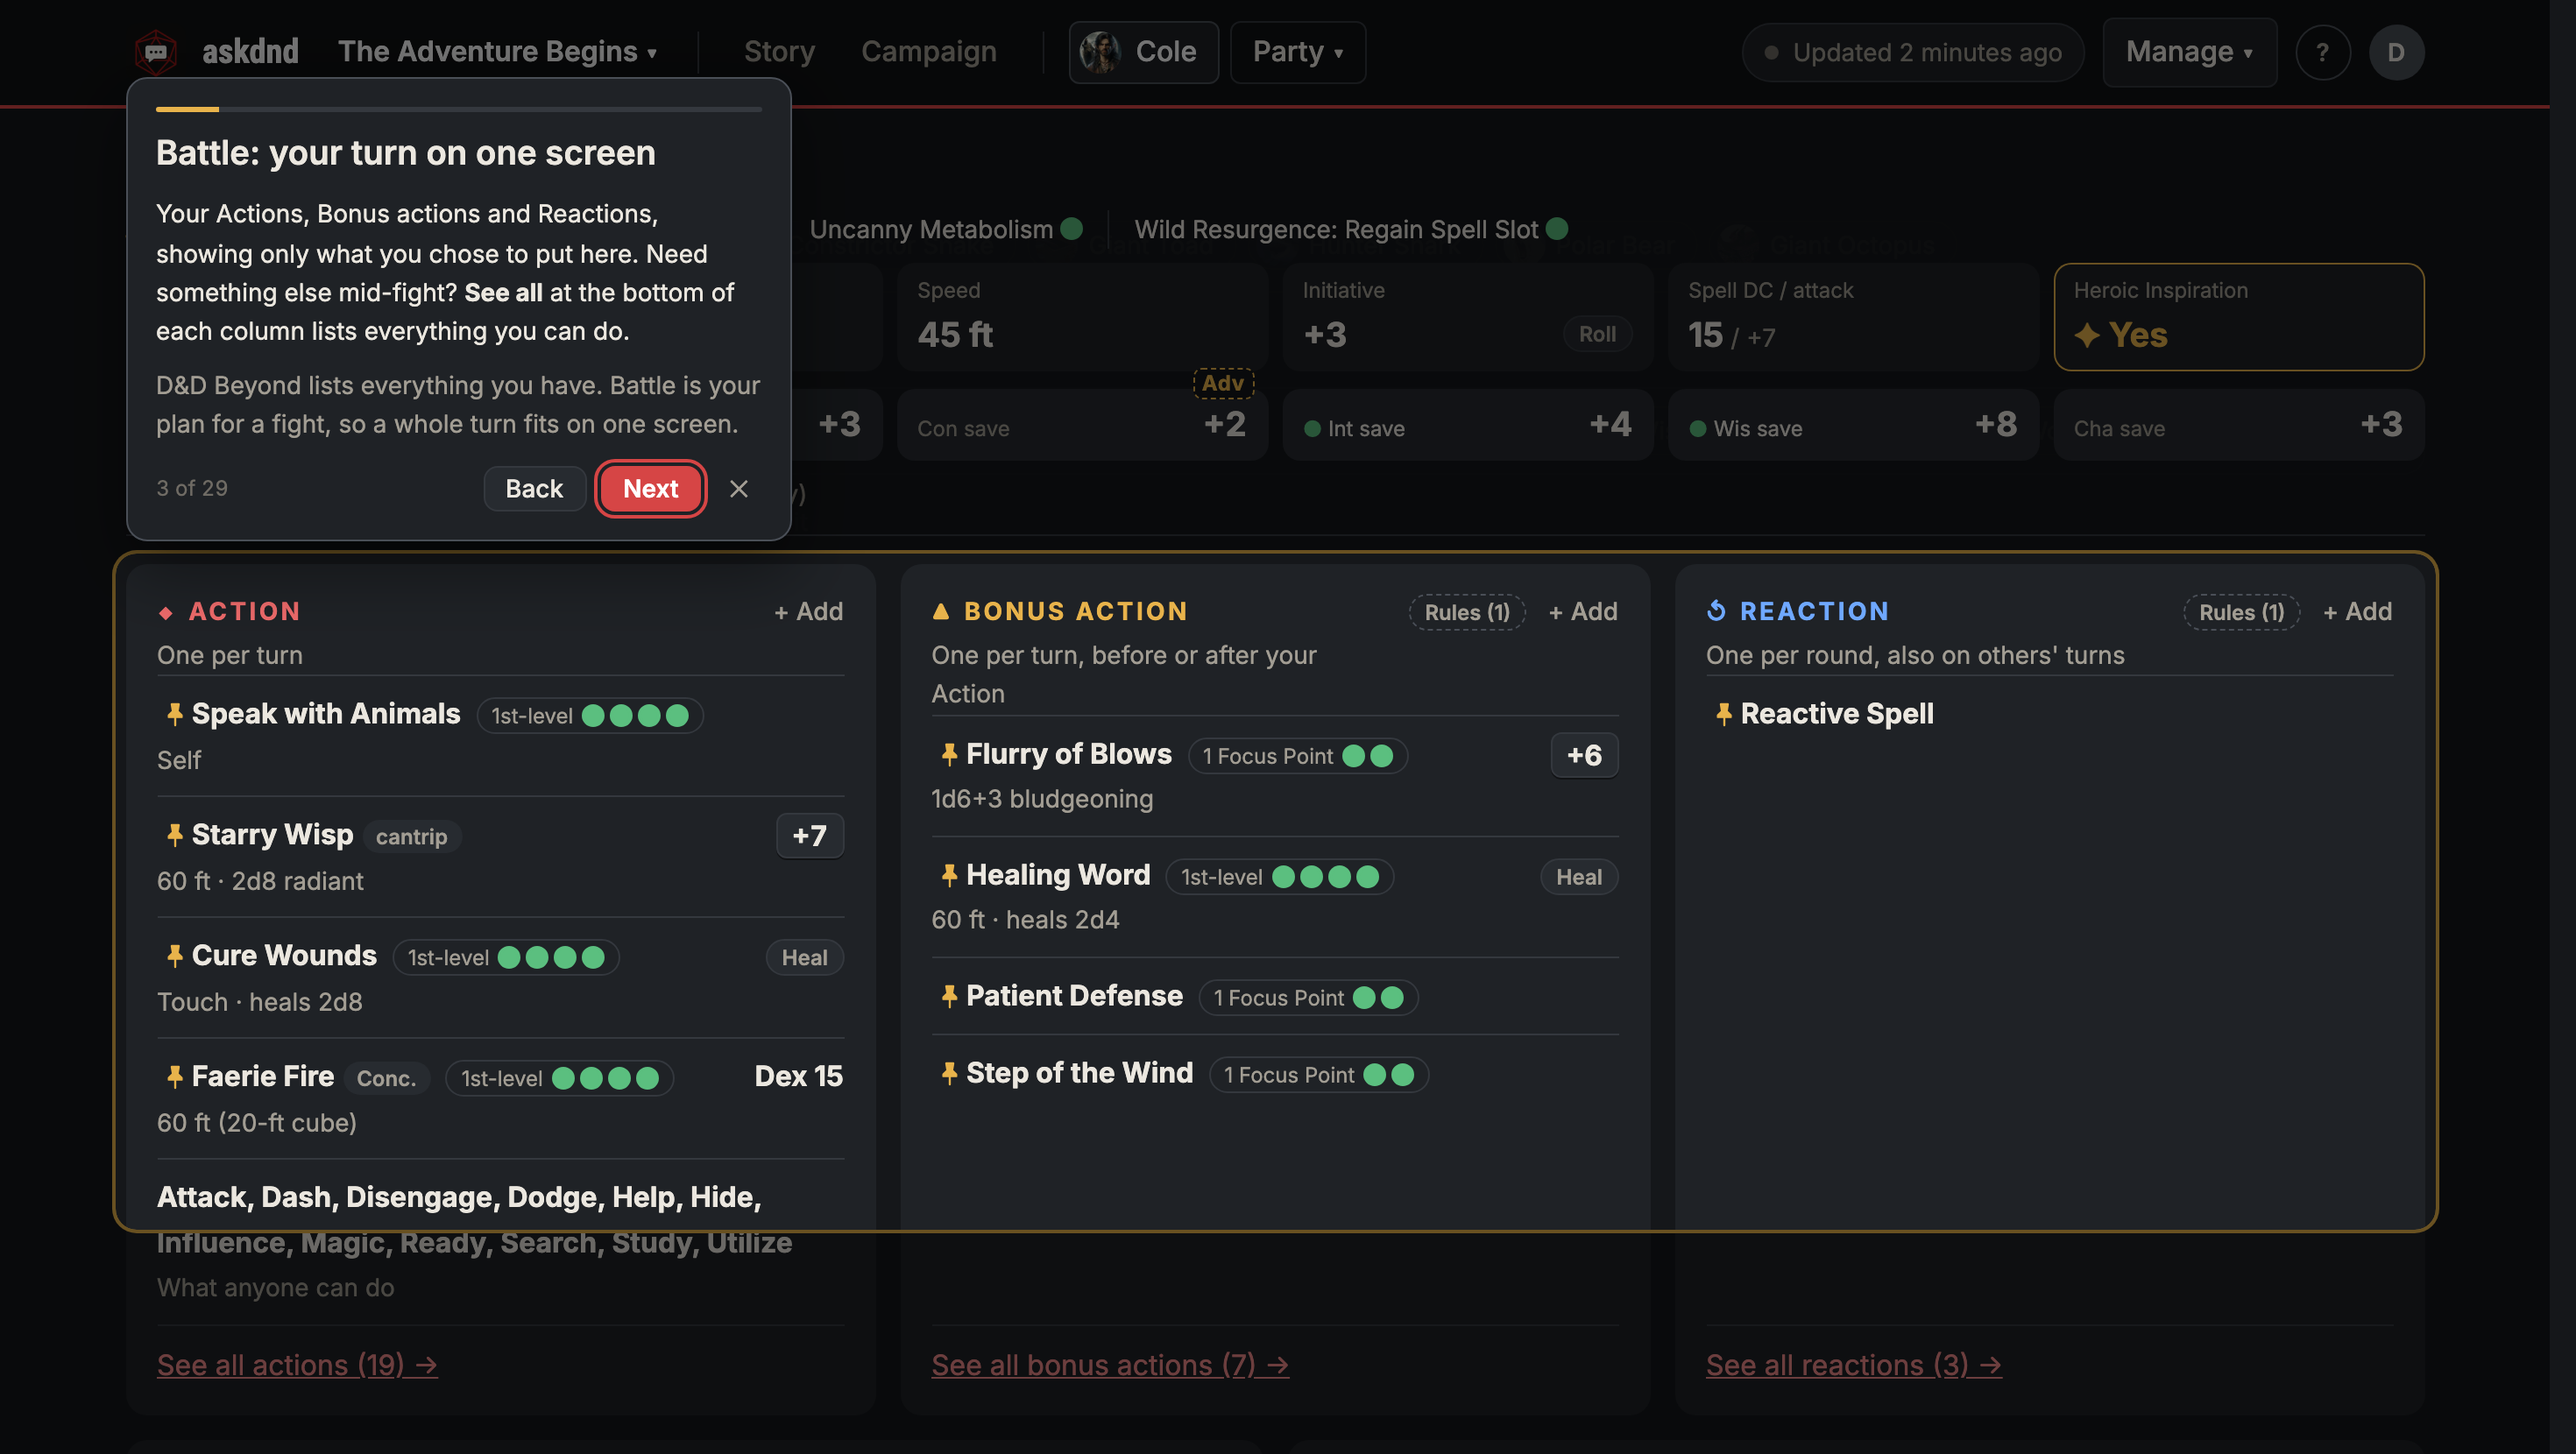
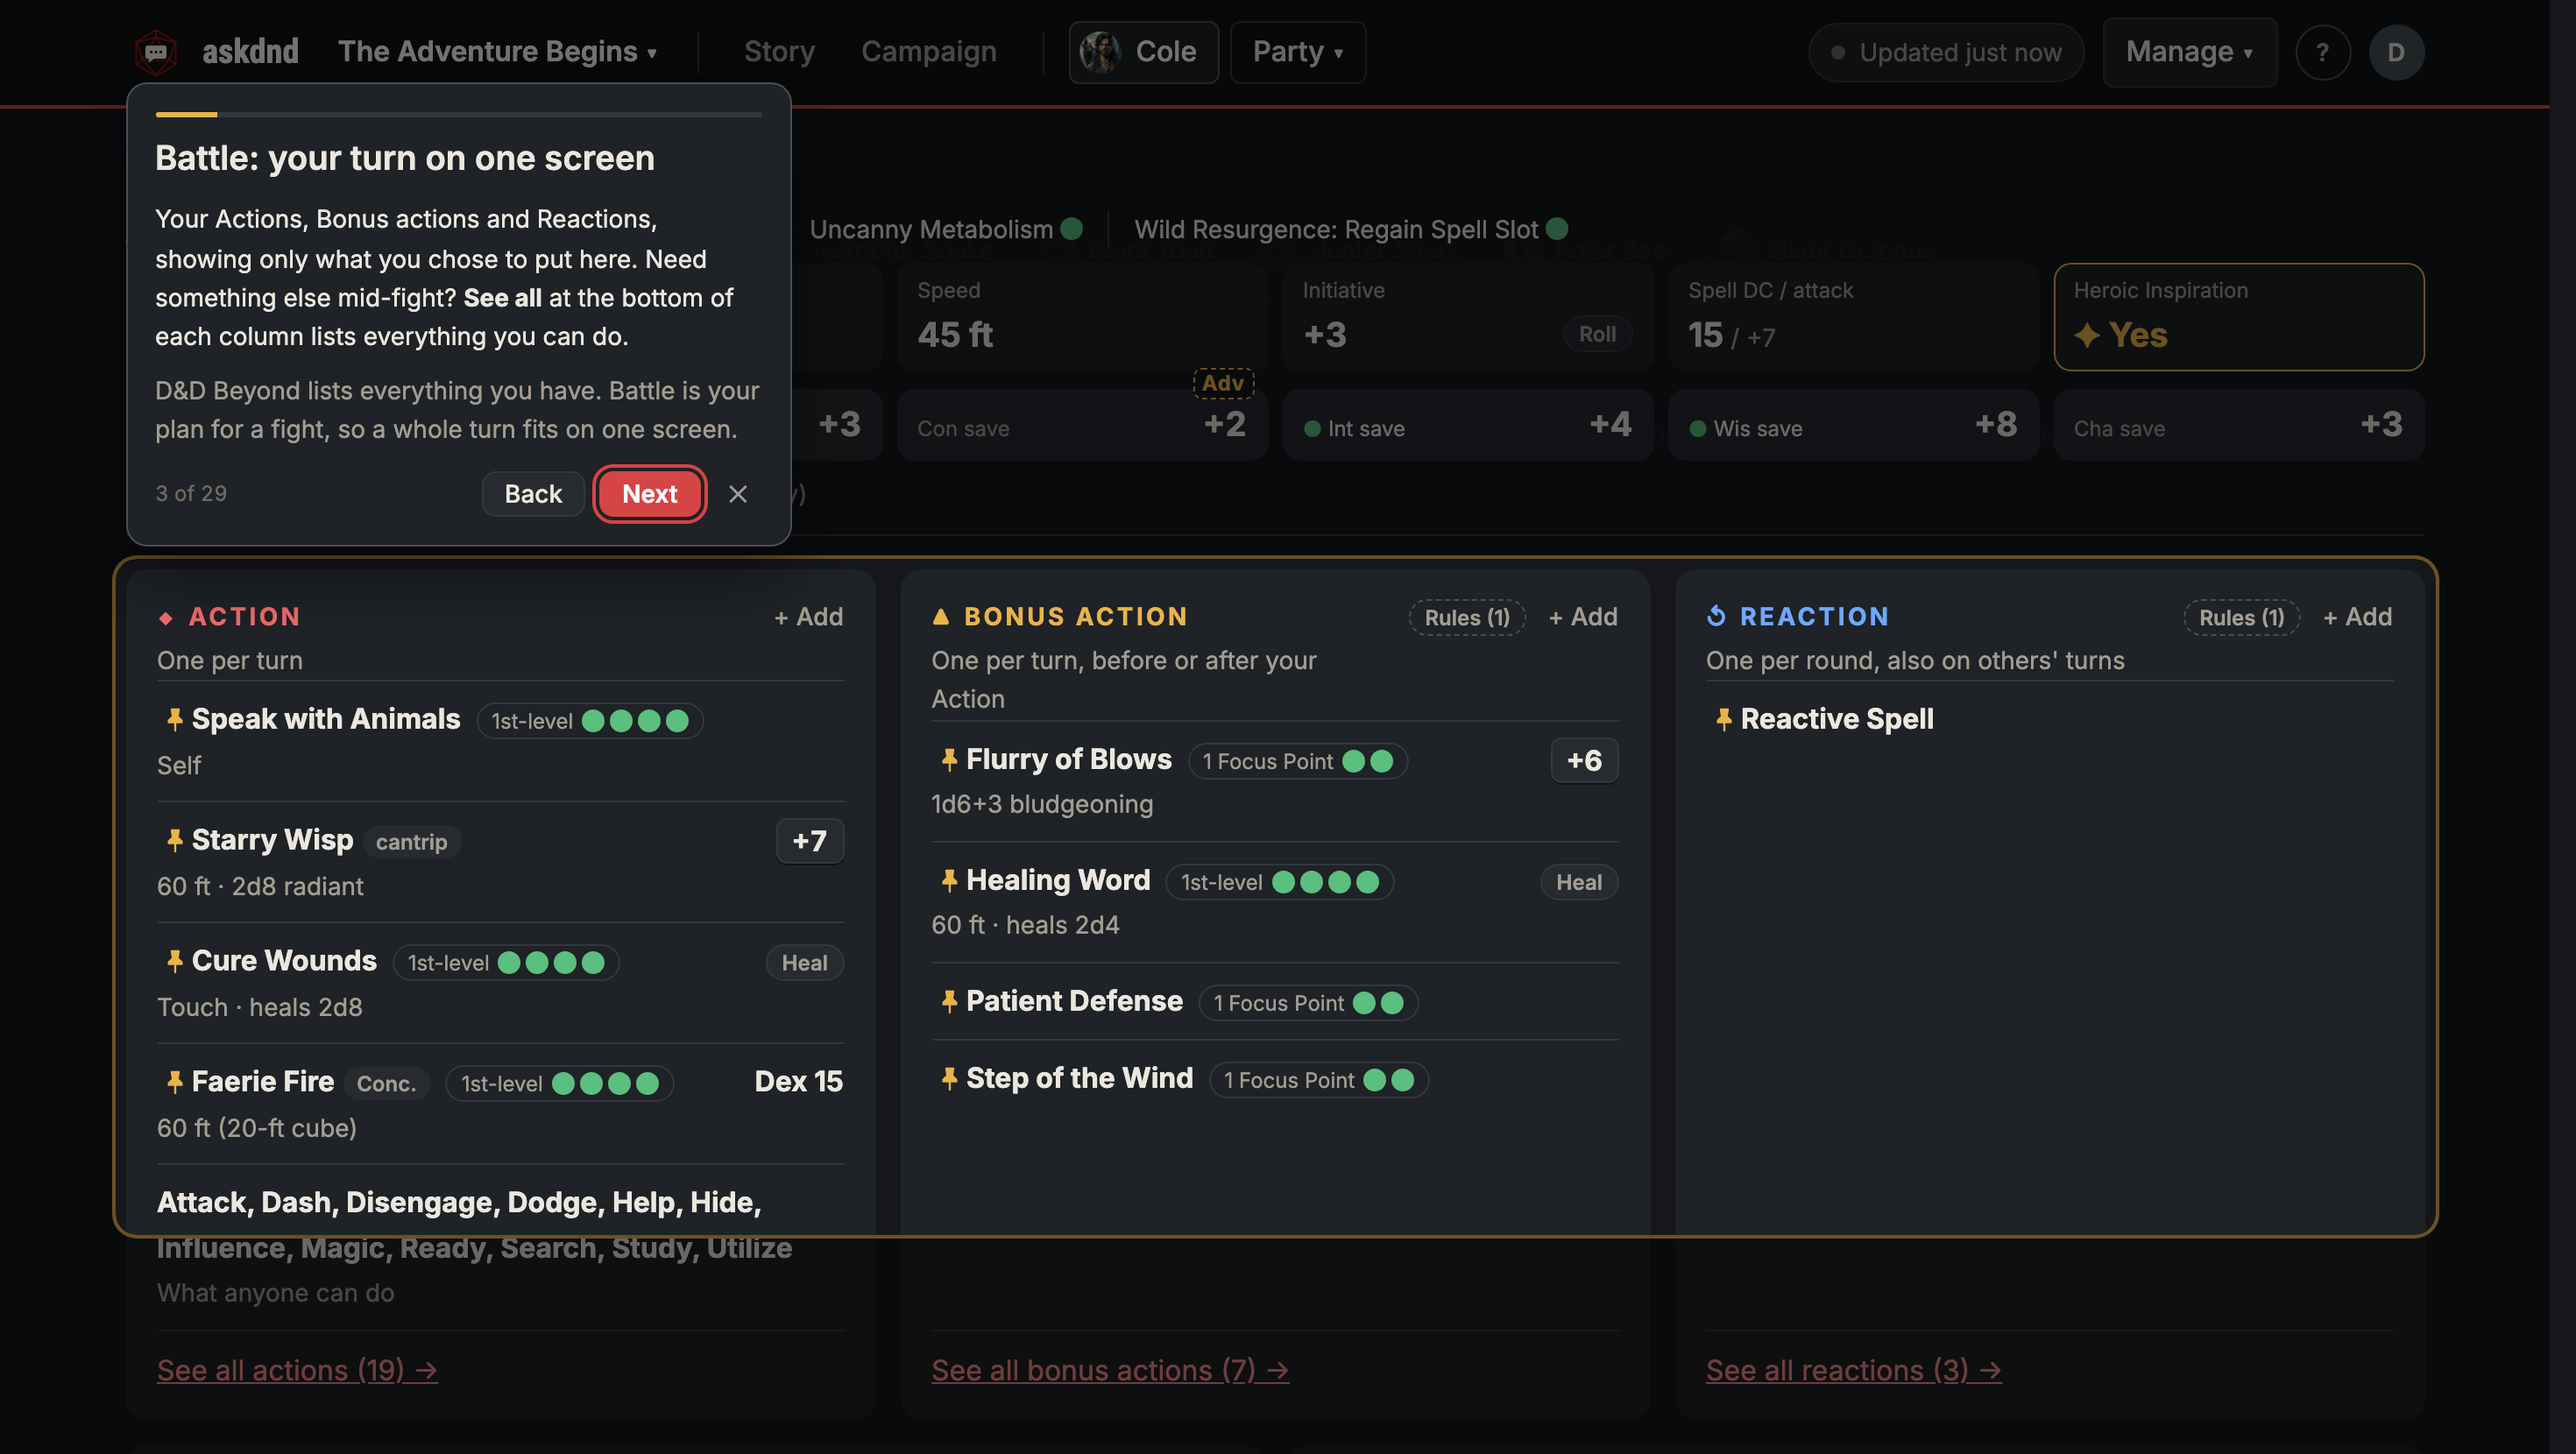
Tour: frame every stop in the space below the stuck bars
The short case (a target that fits on screen) was centered on the whole
screen, so Battle's headings landed under its sticky numbers on a laptop.
One rule now: centered in the free space when it fits, else its top just
below the bars; kept there until the person scrolls. Tested at six sizes.

diff --git a/app/static/app.js b/app/static/app.js
@@ -2580,8 +2580,7 @@
     if (row && row.querySelector('.ri-name')) { tour.example = row.querySelector('.ri-name').textContent.trim(); keep(); }
     if (lit) {
       findBars();
-      if (tall(lit.getBoundingClientRect())) alignTop();
-      else lit.scrollIntoView({ block: s.all ? 'nearest' : 'center' });
+      frame(s);
       shownAt = Date.now(); holding = true; scrolled = 0;
     }
     requestAnimationFrame(() => { if (!card || asking) return; place(); card.querySelector('[data-tour-go="1"]').focus({ preventScroll: true }); });  // (ended meanwhile)
@@ -2634,20 +2633,25 @@
   // Keep the light and the card on their target while anything on the page still moves or loads (a panel sliding in,
   // the Table rolls rail settling, a scrollbar coming or going, a picture loading), not only on scroll and resize:
   // every frame, re-place if the target moved. One rect read per frame, only while the tour is open.
-  // A tall target's top sits just under the bars stuck across the top of the page (a few tries: a bar can stick, or
-  // change height, only once the page has scrolled). While the stop shows, its top is put back whenever it slips under
-  // them (a picture loading, Game Mode redrawing Battle with a fresh sheet), until the person scrolls the page
-  // themselves (Brett, 2026-10-26: Battle's column headings ended up behind its numbers).
+  // Every stop is framed in the part of the screen the bars stuck across the top leave free: centered there when it fits,
+  // else its top just under them (a few tries: a bar can stick, or change height, only once the page has scrolled).
+  // While the stop shows, it's framed again whenever its top slips under them (fonts arriving, a picture, Game Mode
+  // redrawing Battle), until the person scrolls the page themselves (Brett, 2026-10-26: Battle's column headings kept
+  // ending up behind its numbers; centering on the whole screen ignored them).
+  // Something inside a stuck bar (Live, in the menu bar) or in the side panel isn't scrolled into place by the page.
   // Only a real scroll counts: not the last page's momentum, nor a finger resting on a trackpad (tiny wheel events; Brett,
   // 2026-10-26, on his laptop)
   let holding = false, shownAt = 0, scrolled = 0;
   addEventListener('wheel', e => { if (Date.now() - shownAt > 800 && (scrolled += Math.abs(e.deltaY)) > 60) holding = false; }, { passive: true });
   addEventListener('touchmove', () => { if (Date.now() - shownAt > 800) holding = false; }, { passive: true });
-  function alignTop() {
+  function frame(s) {
+    if (lit.closest('.peek')) { lit.scrollIntoView({ block: s.all ? 'nearest' : 'center' }); return; }
+    if (bars.some(el => el.contains(lit))) return;
     for (let k = 0; k < 4; k++) {
-      const want = covered() + 16, at = lit.getBoundingClientRect().top;
-      if (Math.abs(at - want) < 2) break;
-      lit.style.scrollMarginTop = want + 'px'; lit.scrollIntoView({ block: 'start' }); lit.style.scrollMarginTop = '';
+      const r = box(), free = covered(), room = innerHeight - free;
+      const want = r.height + 32 <= room ? free + (room - r.height) / 2 : free + 16;
+      if (Math.abs(r.top - want) < 2) break;
+      scrollBy(0, r.top - want);
     }
   }
   let following = false, was = '';
@@ -2660,7 +2664,7 @@
         const s = tour.stops[tour.i], now = s && visible(s.at);
         if (now) { lit = now; if (s.all) lits = [...document.querySelectorAll(s.at)]; }
       }
-      if (lit && holding && !lit.closest('.peek') && tall(lit.getBoundingClientRect()) && lit.getBoundingClientRect().top < covered() + 4) alignTop();
+      if (lit && holding && !lit.closest('.peek') && box().top < covered() + 4) frame(tour.stops[tour.i]);
       const r = rect(), now = r ? [r.left, r.top, r.width, r.height].map(Math.round).join() : '';
       if (now !== was) { was = now; place(); }
       requestAnimationFrame(tick);

diff --git a/tests/browser/test_new_player_tour.py b/tests/browser/test_new_player_tour.py
@@ -2,6 +2,8 @@
 stop across pages, lighting a target that's really there on each one, and Esc asks before ending it. A page change that loses a
 stop's target fails here, so the tour can't quietly break."""
 
+import pytest
+
 
 def card_title(page) -> str:
     return page.locator(".tour-card h3").inner_text()
@@ -95,11 +97,12 @@ def test_leaving_mid_wild_shape_puts_battle_back(people, server):
     assert player.errors == []
 
 
-def test_a_large_section_is_lit_below_the_bars_stuck_over_it(people, server):
-    """On a short window Battle's numbers stick over half the screen; the columns' tops (their headings) are lit and
-    shown below them, not behind (Brett, 2026-10-26)."""
+@pytest.mark.parametrize("size", [(1000, 540), (1300, 950)])  # short, where Battle's columns are tall; a laptop, where they fit
+def test_a_large_section_is_lit_below_the_bars_stuck_over_it(people, server, size):
+    """Battle's numbers stick across the top of the screen (over half of a short one); the columns' tops (their
+    headings) are shown and lit below them, not behind, whether the columns fit on screen or not (Brett, 2026-10-26)."""
     player = people("player")
-    player.page.set_viewport_size({"width": 1000, "height": 540})
+    player.page.set_viewport_size({"width": size[0], "height": size[1]})
     page = player.open("/help?tab=adds")
     page.click('[data-tour-start="battle"]')
     page.wait_for_url(f"**/characters/{server['cole']}/battle")

diff --git a/docs/DECISIONS.md b/docs/DECISIONS.md
@@ -272,3 +272,4 @@ One line per decision: date — decision — why. Newest at the bottom.
 - 2026-10-26: Tour, tall targets: kept aligned under the stuck bars for the whole stop (not just 2.5 s) until the person scrolls (trackpad momentum from the last page ignored), and the light follows Battle when Game Mode redraws it. Reproduced on the local copy with a late change (the bar growing, Battle redrawn) before fixing; checked locally by Brett before deploying (his ask: test locally to save deploy time).
 - 2026-10-26: Tour: a target inside a bar stuck over the page (Live in the menu bar) is lit where it is; only bars starting above a target's bottom can cover it. Battle combos is two stops: the Combos tab, then a combo's window (Brett's local check).
 - 2026-10-26: Tour: only a real scroll (over about 60px) stops a tall stop's re-alignment; a finger resting on a laptop trackpad sends tiny wheel events that had switched it off, so a late shift (fonts arriving) left Battle's headings under its numbers.
+- 2026-10-26: Tour: every stop is framed in the screen space the stuck bars leave free (centered there when it fits, else its top just under them), one rule instead of separate tall and short cases. Why: on Brett's laptop Battle's columns fit on screen, so they were centered on the whole screen, which put their headings under Battle's numbers; every earlier fix only handled the tall case.
